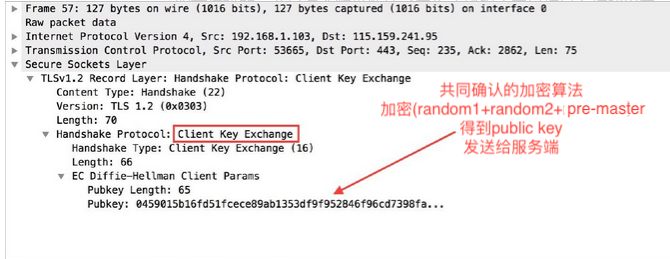
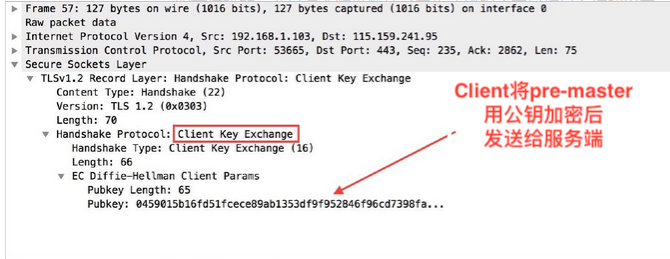
https

Changed region(s): [[0.5672, 0.3089, 0.9851, 0.6178]]

diff --git a/network/http/https.md b/network/http/https.md
@@ -8,12 +8,15 @@ ___
 ### why use https?
 > 💸 从原来的`http`协议缺点来看：
 
-   1⃣ 传输的时候使用明文传参，极其容易被第三方截取
-   2⃣ 没有访问发起者的身份认证机制，第三方即可以十分容易地使用终端发起大量伪请求
-   3⃣ 报文段被部分篡改，服务器端也无法识别 
+1⃣ `明文传输`   
+传输的时候使用`明文`传参，极其容易被第三方截取。https使用的是加密传输。 
+2⃣ `MITM中间人冒充服务器`
+没有访问发起者的身份认证机制，第三方即可以十分容易地使用终端发起大量伪请求。   
+3⃣ `报文容被篡改`     
+报文段被部分篡改，http服务器端也无法识别。    
    
 
-### HTTPS 与 HTTP的不同点
+##### HTTPS 与 HTTP的不同点
 1⃣ `http` 的`URL` 以`http://` 开头，`https`以`https://` 开头
 2⃣ `HTTP`采用的是明文传输，而`HTTPS`使用的是`SSL\TSL`进行加密传输
 3⃣ `HTTP`的默认端口是`80`，而`HTTPS`的默认端口是`443`
@@ -21,26 +24,24 @@ ___
 5⃣ http 的连接很简单,是无状态的，`https`协议是由`SSL+http`协议构建的可进行加密传输、身份认证的网络协议 要比`http`协议安全
 
 
-### 对称加密 和 非对称加密
+##### 对称加密 和 非对称加密
 1⃣ 非对称加密的`公钥`只能够用于加密，非对称加密的`私钥`既能加密也能够解密
 2⃣ 对称加密速度快，可以加密的信息量较大
 3⃣ 非对称加密算法复杂，加密解密速度慢，一般用于少量信息加密
   
-### HTTPS的劣势
-1⃣ 因为加密的需要，常见的三握手就要多几个来回
-2⃣ 对服务器的负载增加
-3⃣  因为对传输进行加密，会一定程度增加cpu消耗。
-4⃣ 由于https 要还密钥和确认加密算法的需要，所以首次建立连接会慢一些。
-5⃣ 带宽消耗会增加。
+##### https的劣势
+1⃣ 因为加密的需要，常见的三握手就要多几个来回，要还密钥和确认加密算法的需要，所以首次建立连接会慢一些。
+2⃣ 因为对传输进行加密，会一定程度增加cpu消耗，相同负载下会增加带宽和服务器投入成本。
+3⃣ 功能越强大的证书就越贵，加大了项目的投资成本。
+4⃣ 在某些政治或者其他原因下，CA公司信息泄露，那么SSL的证书安全就无从谈起。
 
-### `SSL`与`TSL`
+##### `SSL`与`TSL`
 
 1⃣ `SSL`（Security Socket Layer）是一种广泛运用在互联网上的资料加密协议；`TLS`是`SSL`的下一代协议。  
 2⃣ `SSL`证书 (Certificate) 像身分证一般可以在互联网上证明自己的身份。在资料的加密传输开始之前，服务器透过“有效”的`SSL`证书告诉用户端自己是值得信赖的服务器  
 3⃣ 目前`SSL`大部分是收费的，但是自己生成的`SSL`证书又不能被浏览器所信任，即不安全。
 
 ### SSL\TSL 握手流程
-
 
 #### 1⃣ Client Hello 
 > 客户端向服务器发送准备链接的信息(相当于打招呼), 并且告诉服务器自己支持哪些加密套件
@@ -74,18 +75,16 @@ ___
 
 
 #### 5⃣ Certificate Verify  & Client Key Exchange
-* 客户端先从 CA 验证该证书的合法性(正规的根CA机构证书，会内置在OS内)
-* 验证通过后取出证书中的服务端公钥，再生成一个随机数 Random3
-* 再用服务端公钥非对称加密 Random3 生成 `PreMaster Key`。
+* 客户端先从 CA 验证该证书的合法性(正规的根CA机构证书，会内置在OS内) 
   > 注意：这里若证书合法性验证失败，则会告知用户改证书有风险。
-##### 参数
-* `PreMaster Key`：它的生成用的是服务端下载的证书中给的公钥，这里采用的是`非对称加密`
-* 使用加密套件加密的三个值混合之后的结果，这里采用的是对称加密。
+* 验证通过后取出证书中的服务端公钥
+* 再用服务端公钥(非对称加密) 对`Random3`加密，生成 `pre-master`。并发送给服务端
 
-![key](/blog_assets/key_exchange.png)
+![key](/blog_assets/key_exchange.png) 
 
-<font color="red" >至此，使用之前生成的(random1 + random2 + pre-master)随机数,再使用共同确认的加密算法，生成的`key`，接下来准备开始双方测试加密传输。</font>
-
+##### 各自生成对称加密套件   
+双方都使用之前生成的(random1 + random2 + pre-master)生成了一个第一无二的加密套件，接下来准备开始，双方使用独一无二的加密套件，进行测试加密传输。
+（⭕ 记住咯，这个公钥不会被任何一次请求发送到网络上）  
 
 #### 6⃣ Change Cipher Spec & Encrypted Handshake Message （客户端测试加密连接）
 > 首先是客户端通知服务端后面再发送的消息都会使用前面协商出来的秘钥加密了，是一条事件消息。

diff --git a/browser/CORS.md b/browser/CORS.md
@@ -48,30 +48,42 @@ image.onerror = image.onload = function(){
 image.src = 'www.taobao.com/api/v2?name=swainwong'
 ```
 2⃣ `<script>`与`<linkl>`分别用于加载浏览器资源，也是常用的标签，常用于CDN请求  
-3⃣ `<script>`标签还可以用与实现 JSONP跨域请求...下文继续讲述 
+3⃣ `<script>`标签还可以用与实现 JSONP跨域请求...下文继续讲述   
 
-##### JSONP
-JSONP(JSONP with padding)相信FNer们在好多文章中都听过JSONP的大名，但是都没有实现过
 ##### 实现原理
+JSONP(JSONP with padding)相信FNer们在好多文章中都听过JSONP的大名，但是都没有实现过
 1⃣ 只能够使用get请求跨域获取资源
 2⃣ JSONP的原理是`script`标签不受同源策略的限制
 ##### 客户端操作
 1⃣ 客户端首先需要在全局环境中声明一个函数，用于接收和处理即将通过JSONP获取到的数据  
 2⃣ 然后使用Javscript动态生成一个`script`标签，类型为`text/javscript`,`src`值为`要跨域获取的资源地址`+`获取函数的字段名称`+`回调函数的名称`。例如：`www.assets.com/assets?callbackName=resovleFunction`，最后动态插入到head标签中
+##### 客户端处理
 ```js
+// callback处理函数  
 function resolveJosn(result) {
 	console.log(result.name);
 }
+// 原生
 var jsonpScript= document.createElement("script");
 jsonpScript.type = "text/javascript";
 jsonpScript.src = "https://www.qiute.com?callback=resolveJson";
 document.getElementsByTagName("head")[0].appendChild(jsonpScript);
+
+// jQuery 
+$.ajax({
+    url: 'https://www.qiute.com',
+    type: 'get',
+    dataType: 'jsonp',  // 请求方式为jsonp
+    jsonpCallback: "resolveJson",    // 自定义回调函数名
+    data: {}
+});
 ```
 
 ##### 服务端处理
 1⃣ 服务端接收到请求之后，从取出请求的URL中取出方法的名称
 2⃣ 使用这个方法的名称，动态生成一段Javascript代码，在代码中使用这个方法，将所需要传输的跨域数据，作为函数的参数传入处理方法中
 ```js
+// nodejs服务端 
 server.on('request', function(req, res) {
     var params = qs.parse(req.url.split('?')[1]);
     var fn = params.callback;
@@ -352,14 +364,12 @@ iframe = document.createElement('iframe');
 
 <!-- ### summary
 > 接下来准备去了解剩下的跨域方法，在项目中具体有哪些跨域需求，又有哪些操作需要FEer们去进行操作的 :smile: [传送门](/browser/CORS_ON_WORK.md) -->
-
+___
 ### 参考文章
 [CORS - qiutc.me](https://qiutc.me/post/cross-domain-collections.html)       
 [CORS - MDN](https://developer.mozilla.org/zh-CN/docs/Web/HTTP/Access_control_CORS)   
 [CORB是什么鬼](https://blog.csdn.net/weixin_42672054/article/details/81985736)  
 [前端跨域大全 -by 360前端](https://segmentfault.com/a/1190000016653873)  
-
-
 [前端常见跨域 - 掘金](https://juejin.im/entry/59b8fb276fb9a00a42474a6f)
 
 

diff --git a/project_build/nginx.md b/project_build/nginx.md
@@ -4,15 +4,53 @@
 ### Nginx Start
 `nginx -t && nginx -s reload`
 
-## 为啥要用Nginx 
+### nginx常见知识点
+1⃣ 默认监听 `80` 端口    
+
 
 ### 请求转发
 
 ### 跨域处理
+```conf
+server{
+    listen 80;
+    server_name localhost
+    location / { #设置拦截路径
+       proxy_pass https://www.domin2.com:9527 # 反向代理到另一处 
+       proxy_cookie_domain localhost www.domain2.com
 
-### 负载均衡
+       # 添加跨域请求头 
+       add_header Access-Control-Allow-Origin:*;
+       add_header Access-Control-Allow-Method:GET,POST,OPTION;
+       add_header Access-Control-Header: XXX-SSS-QQQ; # 跨域请求时额外允许添加的请求头
+    }
+}
+```
 
-## 如何配置Nginx
+#### 实现简单的访问限制 
+```js
+location / {
+        deny  192.168.1.100;
+        allow 192.168.1.10/200;
+        allow 10.110.50.16;
+        deny  all;
+  }
+```
+#### 识别设备
+```js
+location / {
+        # 移动、pc设备适配
+        if ($http_user_agent ~* '(Android|webOS|iPhone|iPod|BlackBerry)') {
+            set $mobile_request '1';
+        }
+        if ($mobile_request = '1') {
+            rewrite ^.+ http://mysite-base-H5.com;
+        }
+    }  
+```  
 
+#### 负载均衡  
+
+___
 ### 参考文章
 https://juejin.im/post/5bacbd395188255c8d0fd4b2

diff --git a/JS/[[SCOPE]].md b/JS/[[SCOPE]].md
@@ -1,4 +1,4 @@
-#  Javascript作用域链
+# Javascript作用域链
 执行环境   :arrow_right:  作用域链  :arrow_right:  变量对象
 每个执行环境都有一个`[ [scope] ]`变量，指向对象的的作用域链，作用域链上的每个栏位都存放着对应的函数空间的变量对象。
 ### 执行环境
@@ -24,7 +24,17 @@
 ### 作用域链
 * 开始执行的时候，作用域链上只有全局对象，并保存在内部属性`[[SCOPE]]`上。
 * 调用某个函数的时候，会取出之前存有全局对象的`[[scope]]`，并把当前函数的活动对象，追加到取出的全局对象中，形成新的作用域链，再次存入`[[SCOPE]]`。
-* 代码在一个环境中执行时，会创建变量对象的一个作用域链。
+* 代码在一个环境中执行时，会创建变量对象的一个作用域链。  
+
+#### 始终记住JS没有块级作用域 
+在ES6的`let`之前，javascript是没有块级作用域的
+```js
+if(false){
+    var abc = 123;
+}
+console.log(abc)
+```
+使用`var`的abc声明提升到了作用域顶端，这里的所谓`if作用域`是不存在的，其实就是外层的顶级作用域。
 ___
 ### 实例理解
 ```js

diff --git a/JS/what_does_new_do.md b/JS/what_does_new_do.md
@@ -17,4 +17,9 @@ function New(fun){
     }
 }
 
-```
+``` 
+
+### 小常识
+1⃣ new Person 和 new Person() 含义相同，都相当于调用了构造函数，并且给构造函数传递了一个`undefined`参数。   
+
+
